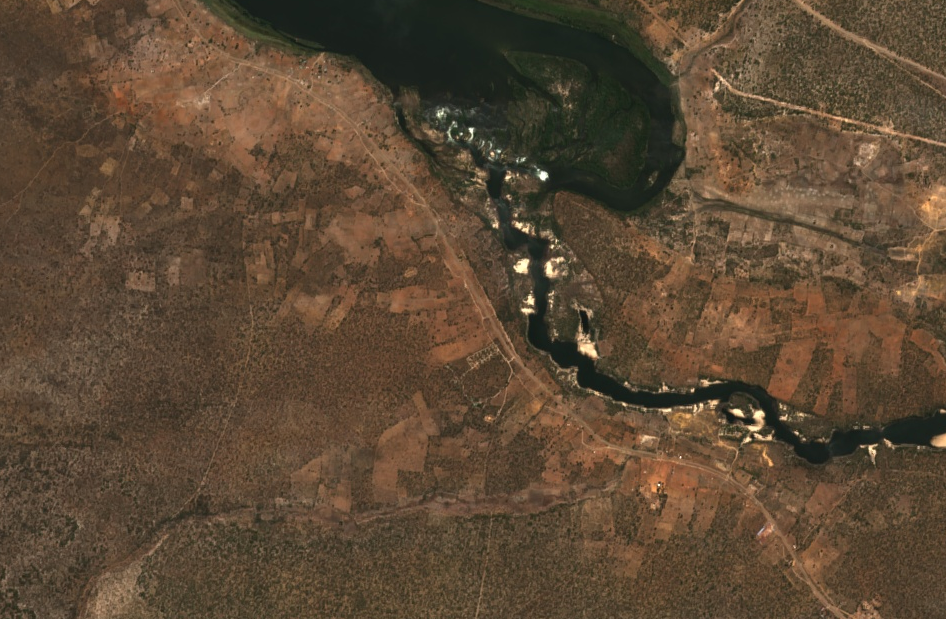
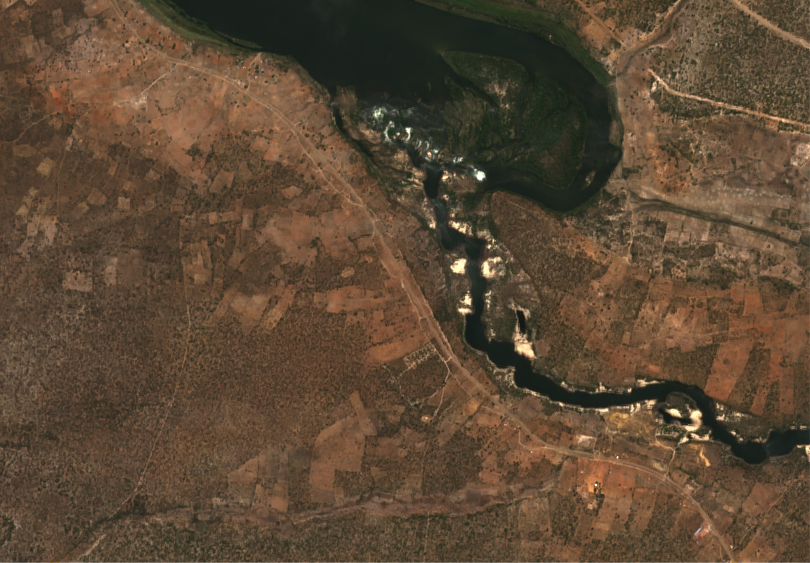
clip yearly composite to roi

diff --git a/earth_engine_scripts/yearly_composite.js b/earth_engine_scripts/yearly_composite.js
@@ -18,6 +18,12 @@ function maskS2clouds(image) {
 	return image.updateMask(mask).divide(10000);
 	};
 
+var roi = ee.Geometry.Polygon(
+	[[[23.53433995098646, -16.638721269184682],
+		  [23.53433995098646, -16.685015046593627],
+		  [23.603948639340953, -16.685015046593627],
+		  [23.603948639340953, -16.638721269184682]]], null, false);
+
 var s2_image = ee.ImageCollection('COPERNICUS/S2_SR')
 	// Set date range
 	.filterDate('2020-01-01', '2020-12-31')
@@ -26,7 +32,9 @@ var s2_image = ee.ImageCollection('COPERNICUS/S2_SR')
 	// Apply cloud mask
 	.map(maskS2clouds)
 	// Compute mean
-	.mean();
+	.mean()
+	// Clip roi
+	.clip(roi);
 
 // Set visualization parameters
 var vis_params = {
